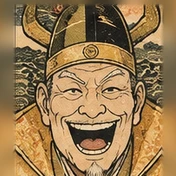
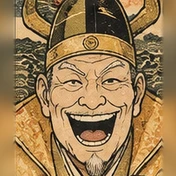
浮世絵版: 紫式部・牛若丸・聖徳太子・勝海舟・豊臣秀吉・武田信玄の位置と大きさを調整
Claude-Session: https://claude.ai/code/session_015fwoRN5EZXb2K7SzR6LxUP

diff --git a/mahjong/tools/cut_ukiyoe.py b/mahjong/tools/cut_ukiyoe.py
@@ -18,8 +18,8 @@ EYE = [88, 93, 90, 95, 98, 95, 90, 93,   100, 105, 100, 100, 100, 108, 100, 90, 
 import numpy as np
 SCALE = 0.88  # 顔の大きさ(1=パネルの横幅いっぱい)。小さくすると、まわりを足して、顔が小さく見える
 # 1人ずつの調整(番号は 1〜32)。 SIZE: 顔の大きさを、全体(SCALE)の何倍にするか / UP: 顔を上にあげる量(窓の高さに対する割合。0.05 = 5%)
-SIZE = {1: 0.90, 4: 0.95, 6: 0.95, 9: 0.95, 14: 1.05, 26: 1.05}
-UP = {1: 0.05, 2: 0.10, 3: 0.05, 4: 0.05, 5: 0.10, 6: 0.05, 7: 0.05, 20: 0.05, 26: 0.10}
+SIZE = {1: 0.90, 4: 0.95, 6: 0.95, 9: 0.95, 12: 1.05, 13: 0.95, 14: 1.05, 17: 1.05, 26: 1.05}
+UP = {1: 0.05, 2: 0.10, 3: 0.05, 4: 0.05, 5: 0.10, 6: 0.10, 7: 0.05, 8: 0.05, 12: 0.05, 17: 0.05, 20: 0.05, 26: 0.10, 28: 0.05}
 P = 60        # まわりを足す幅(鏡のように折り返す)
 im = Image.open(os.path.join(U, 'sheet_cpu.png')).convert('RGB')
 n = 0
